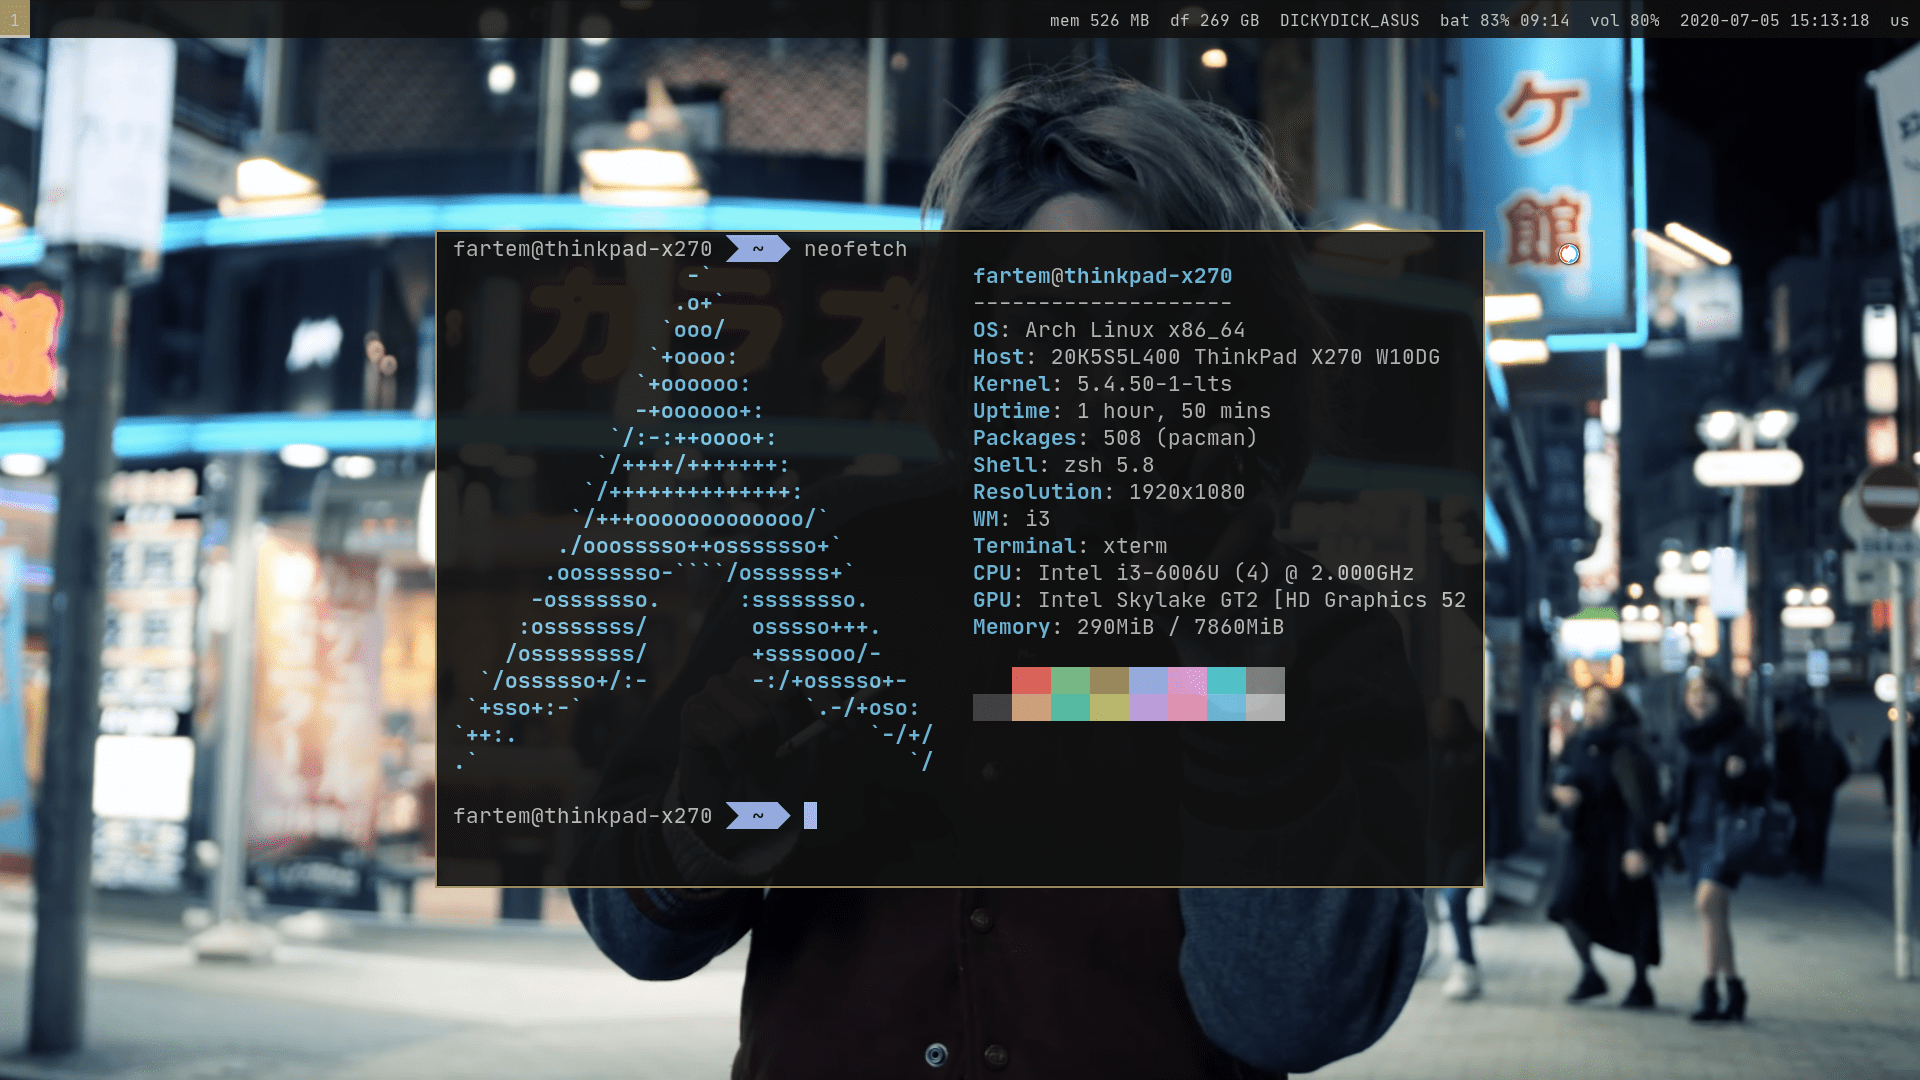
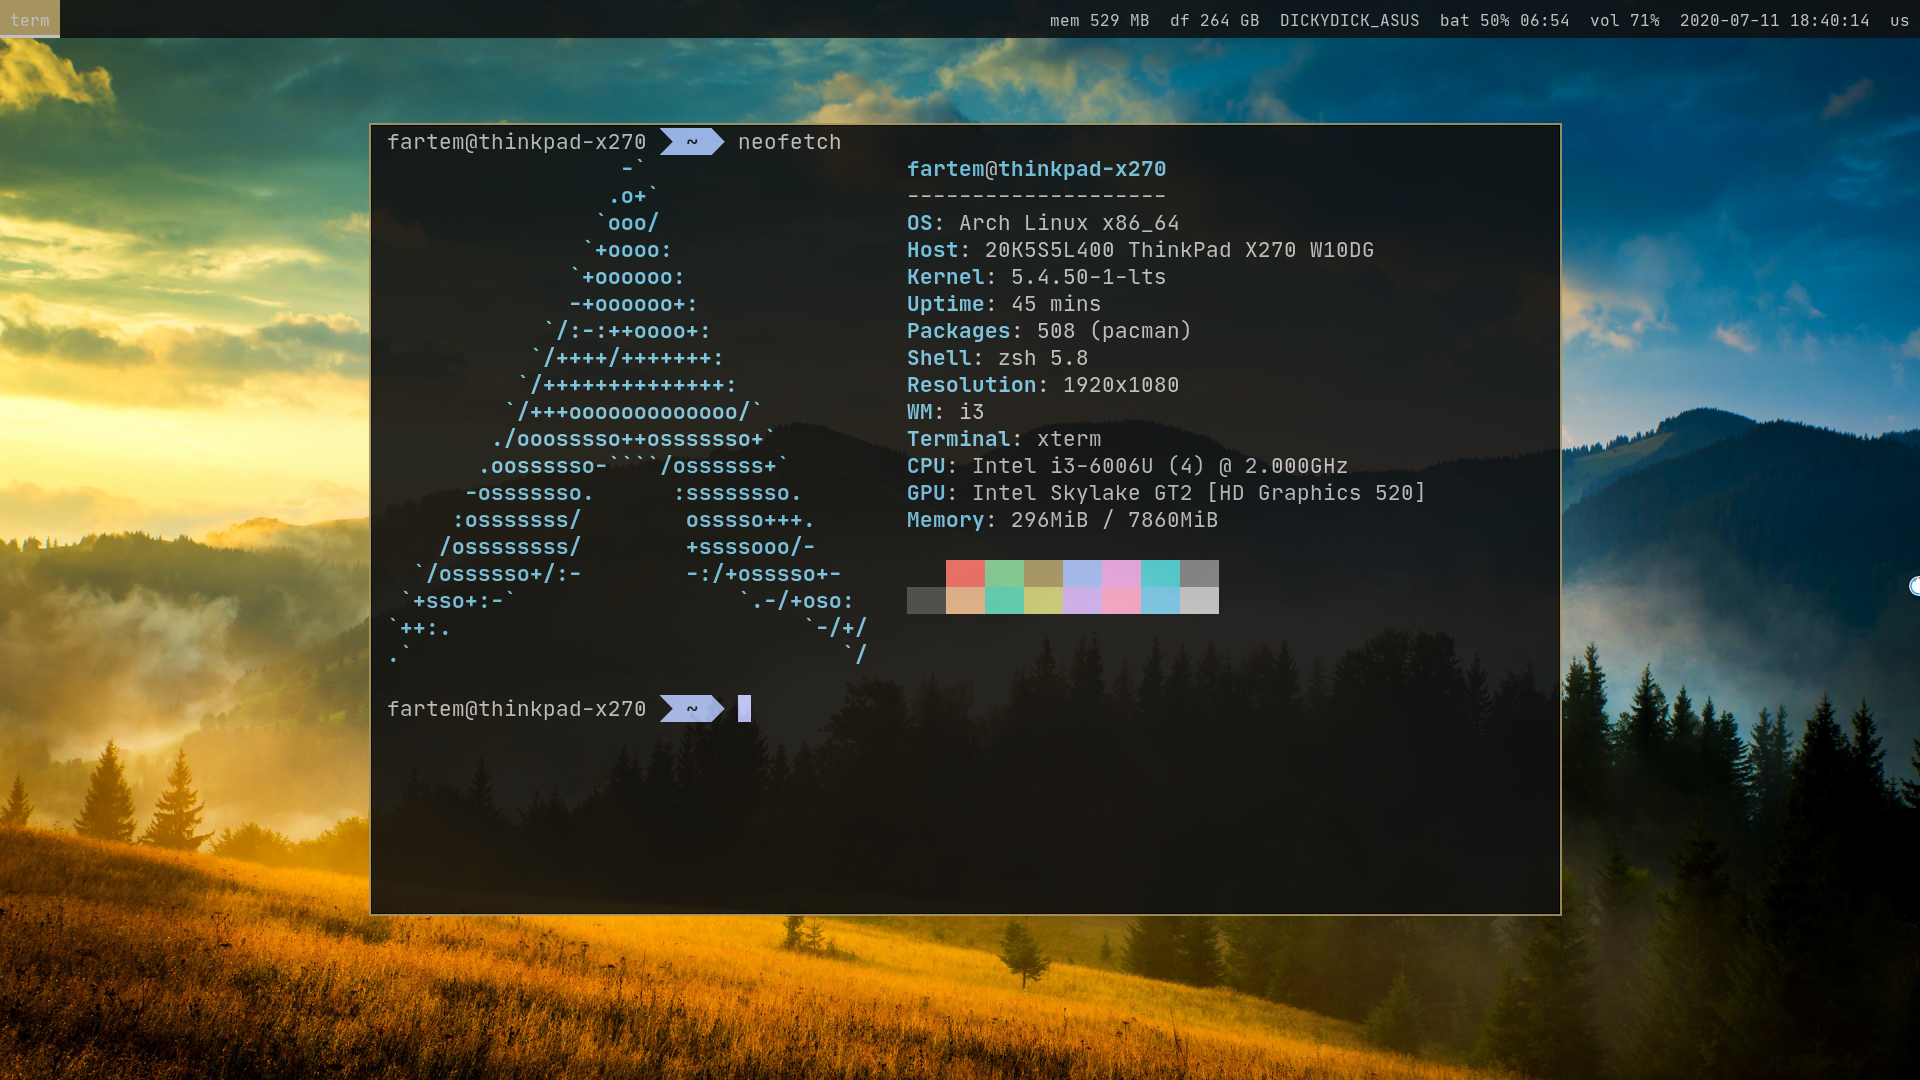
2020-07-11 Update: Updated i3 config and screenshots

diff --git a/README.md b/README.md
@@ -26,6 +26,4 @@ i3wm configuration for laptop.
 ## Screenshots
 
 ![screenshot_01](screenshots/screenshot_01.png)
-![screenshot_02](screenshots/screenshot_02.png)
-![screenshot_03](screenshots/screenshot_03.png)
 
